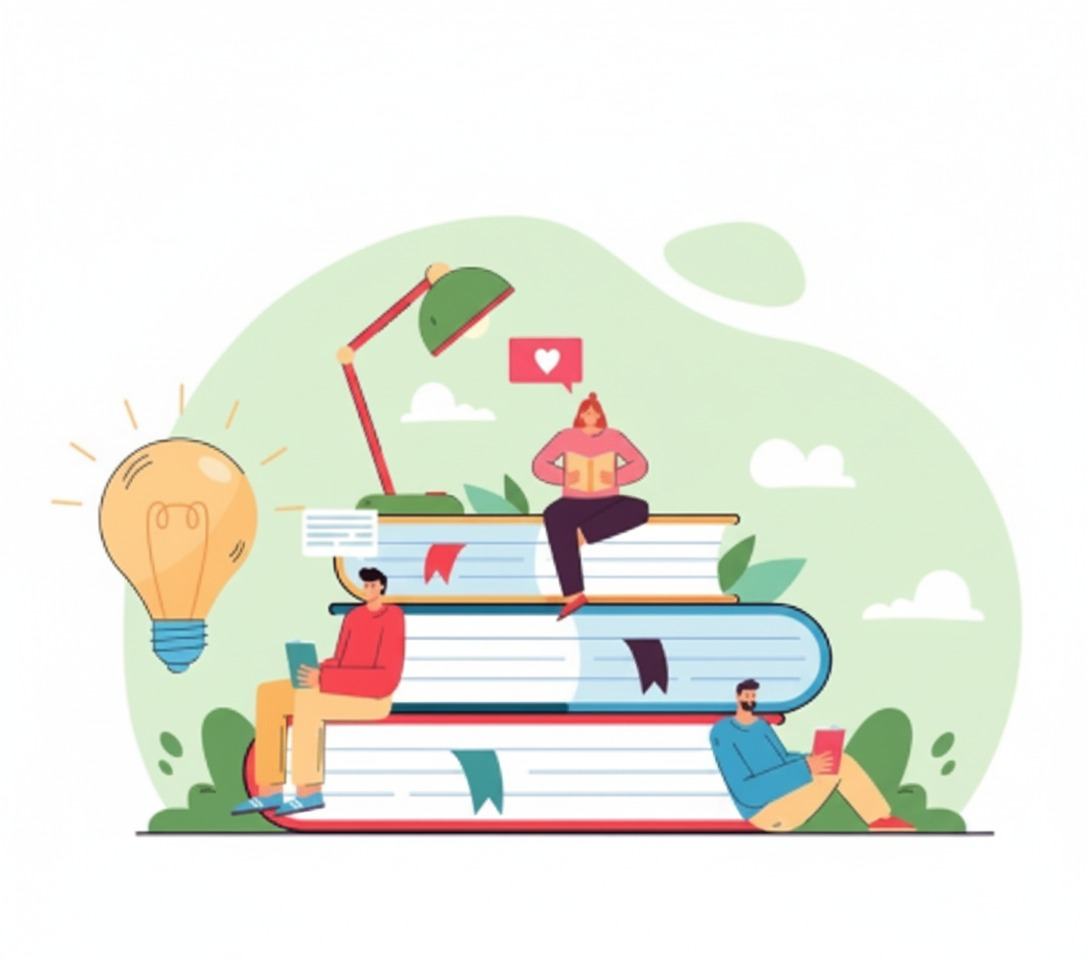
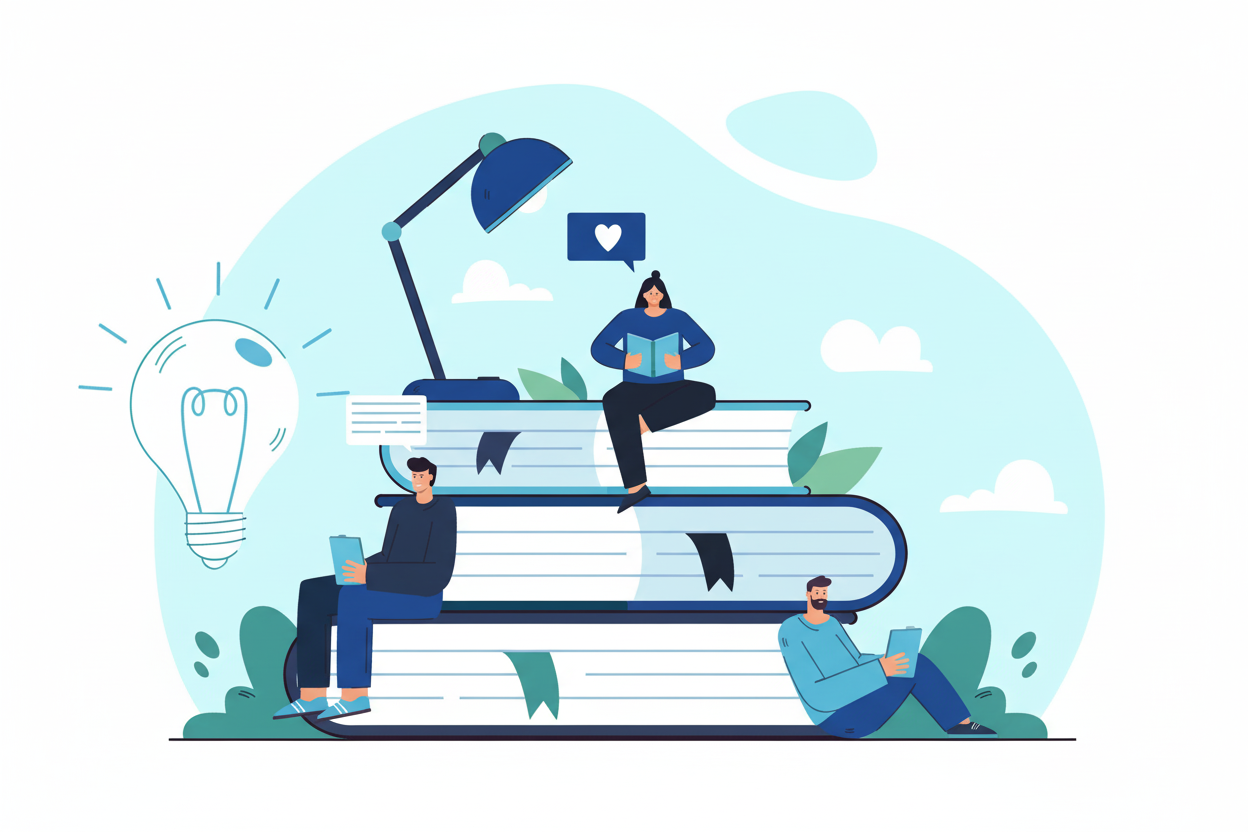
landing page

diff --git a/lib/widgets/onboarding_page.dart b/lib/widgets/onboarding_page.dart
@@ -30,7 +30,7 @@ class OnboardingPageWidget extends StatelessWidget {
                       width: 12,
                       height: 12,
                       decoration: const BoxDecoration(
-                        color: Colors.green,
+                        color: Color(0xFF5B9FED),
                         shape: BoxShape.circle,
                       ),
                     ),
@@ -40,7 +40,7 @@ class OnboardingPageWidget extends StatelessWidget {
                       style: TextStyle(
                         fontSize: 20,
                         fontWeight: FontWeight.bold,
-                        color: Colors.green,
+                        color: Color(0xFF5B9FED),
                         letterSpacing: 1.2,
                       ),
                     ),

diff --git a/lib/screens/onboarding_screen.dart b/lib/screens/onboarding_screen.dart
@@ -115,7 +115,7 @@ class _OnboardingScreenState extends State<OnboardingScreen> {
                     child: ElevatedButton(
                       onPressed: _nextPage,
                       style: ElevatedButton.styleFrom(
-                        backgroundColor: Colors.green,
+                        backgroundColor: const Color(0xFF5B9FED),
                         foregroundColor: Colors.white,
                         shape: RoundedRectangleBorder(
                           borderRadius: BorderRadius.circular(8),

diff --git a/lib/widgets/page_indicator.dart b/lib/widgets/page_indicator.dart
@@ -22,7 +22,7 @@ class PageIndicator extends StatelessWidget {
           width: currentPage == index ? 24 : 8,
           decoration: BoxDecoration(
             color: currentPage == index 
-                ? Colors.green
+                ? const Color(0xFF5B9FED)
                 : Colors.grey.withOpacity(0.3),
             borderRadius: BorderRadius.circular(4),
           ),
